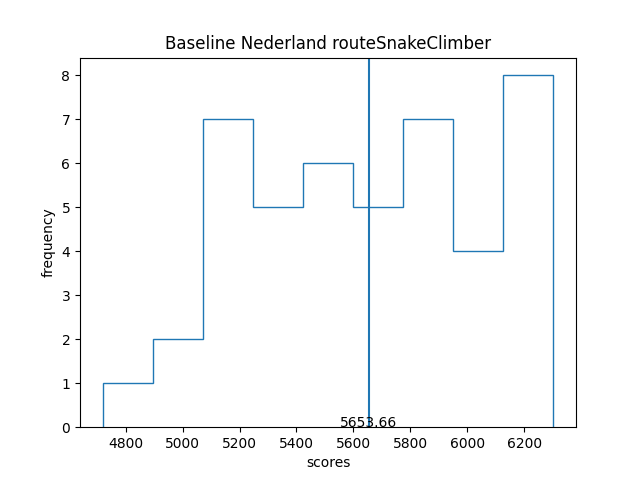
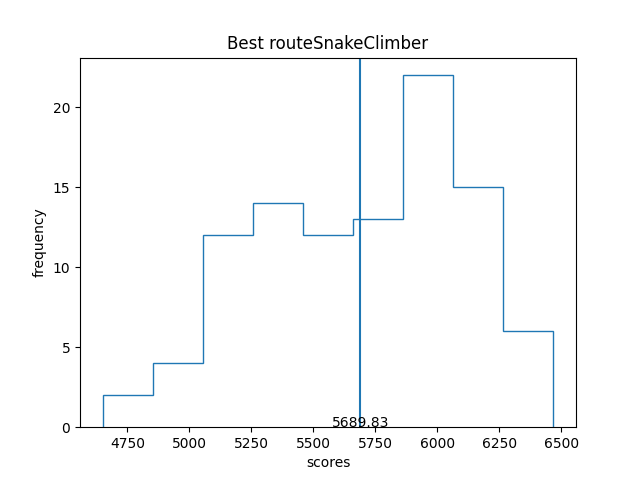
readme

diff --git a/railNL/algorithms/hillclimber_simon.py b/railNL/algorithms/hillclimber_simon.py
@@ -12,7 +12,8 @@ from algorithms.random_hajo import randomSolution, exportScores
 class HillClimber():
 
 
-    def __init__(self, model, runName: str, targetFolder: str, maxRoutes: int, maxDuration: int, randomIterations: int, maxConvergence: int):
+    def __init__(self, model, runName: str, targetFolder: str, maxRoutes: int,
+                 maxDuration: int, randomIterations: int, maxConvergence: int):
         # Takes a random solution
         model = randomSolution(model, maxRoutes, maxDuration, randomIterations)
         workModel = deepcopy(model)
@@ -88,7 +89,7 @@ class HillClimber():
             self.convergence = 0
 
 
-    def run(self, verbose=False, mutate_nodes_number=1) -> None:
+    def run(self, iterations: int= 30000, verbose=False, mutate_nodes_number=1) -> None:
         """
         Runs the hillclimber algorithm for a specific amount of iterations.
         """
@@ -96,13 +97,14 @@ class HillClimber():
         START_TIMESTAMP = datetime.datetime.now().strftime("%Y%m%d-%H%M%S")
 
         self.convergence = 0
-
+        self.iterations = iterations
 
         while self.convergence <= self.maxConvergence:
 
             # Accept it if it is better
             self.checkSolution(self.mutateRoute())
             self.iteration += 1
+            self.iterations += 1
             self.convergence += 1
 
         # exports scoress
@@ -110,7 +112,11 @@ class HillClimber():
         exportScores(self.scores, self.targetFolder, self.runName, START_TIMESTAMP)
 
 
-def main(network: RailNetwork, runName: str, targetFolder: str, maxRoutes: int, maxDuration: int, randomIterations: int=50, maxConvergence: int=10000) -> RailNetwork:
-    model = HillClimber(network, runName, targetFolder, maxRoutes, maxDuration, randomIterations, maxConvergence)
+def main(network: RailNetwork, runName: str, targetFolder: str, maxRoutes: int,
+         maxDuration: int, randomIterations: int=50,
+         maxConvergence: int=10000) -> RailNetwork:
+
+    model = HillClimber(network, runName, targetFolder, maxRoutes, maxDuration,
+                        randomIterations, maxConvergence)
     model.run()
     return model.previousModel

diff --git a/railNL/algorithms/hillClimber_Finn_Simon.py b/railNL/algorithms/hillClimber_Finn_Simon.py
@@ -13,7 +13,8 @@ from algorithms.random_hajo import randomSolution, exportScores, randomRoute
 class HillClimber():
 
 
-    def __init__(self, model, runName: str, targetFolder: str, maxRoutes: int, maxDuration: int, randomIterations: int, maxConvergence: int):
+    def __init__(self, model, runName: str, targetFolder: str, maxRoutes: int,
+                 maxDuration: int, randomIterations: int, maxConvergence: int):
         # Takes a random solution
         model = randomSolution(model, maxRoutes, maxDuration, randomIterations)
         workModel = deepcopy(model)
@@ -34,6 +35,7 @@ class HillClimber():
         """
         self.workModel = deepcopy(self.previousModel)
 
+        # makes sure that the minimum of routes is 7, for highest results
         if self.workModel.nRoute() < 7:
             routeID = self.getLowestScoringRoute()
             self.removeLowestRoute(routeID)
@@ -80,7 +82,8 @@ class HillClimber():
 
     def mutateRoute(self) -> None:
         """
-        Random choice between removing first three or last three station for every route taken.
+        Random choice between removing first three or last three station for
+        every route taken.
         Than adds a new station to the route.
         """
         for route in self.workModel.listRoutes():
@@ -166,7 +169,11 @@ class HillClimber():
         exportScores(self.scores, self.targetFolder, self.runName, START_TIMESTAMP)
 
 
-def main(network: RailNetwork, runName: str, targetFolder: str, maxRoutes: int, maxDuration: int, randomIterations: int=50, maxConvergence: int=10000) -> RailNetwork:
-    model = HillClimber(network, runName, targetFolder, maxRoutes, maxDuration, randomIterations, maxConvergence)
+def main(network: RailNetwork, runName: str, targetFolder: str, maxRoutes: int,
+         maxDuration: int, randomIterations: int=50,
+         maxConvergence: int=10000) -> RailNetwork:
+
+    model = HillClimber(network, runName, targetFolder, maxRoutes, maxDuration,
+                        randomIterations, maxConvergence)
     model.run()
     return model.previousModel

diff --git a/railNL/algorithms/hillclimber_simon1.py b/railNL/algorithms/hillclimber_simon1.py
@@ -11,7 +11,8 @@ from algorithms.random_hajo import randomSolution, exportScores
 
 class HillClimber():
 
-    def __init__(self, model, runName: str, targetFolder: str, maxRoutes: int, maxDuration: int, randomIterations: int, maxConvergence: int):
+    def __init__(self, model, runName: str, targetFolder: str, maxRoutes: int,
+                 maxDuration: int, randomIterations: int, maxConvergence: int):
         # Takes a random solution
         model = randomSolution(model, maxRoutes, maxDuration, randomIterations)
         workModel = deepcopy(model)
@@ -112,7 +113,11 @@ class HillClimber():
         self.previousModel.exportSolution(self.targetFolder, self.runName)
         exportScores(self.scores, self.targetFolder, self.runName, START_TIMESTAMP)
 
-def main(network: RailNetwork, runName: str, targetFolder: str, maxRoutes: int, maxDuration: int, randomIterations: int=50, maxConvergence: int=10000) -> RailNetwork:
-    model = HillClimber(network, runName, targetFolder, maxRoutes, maxDuration, randomIterations, maxConvergence)
+def main(network: RailNetwork, runName: str, targetFolder: str, maxRoutes: int,
+         maxDuration: int, randomIterations: int=50,
+         maxConvergence: int=10000) -> RailNetwork:
+
+    model = HillClimber(network, runName, targetFolder, maxRoutes, maxDuration,
+                        randomIterations, maxConvergence)
     model.run()
     return model.previousModel

diff --git a/railNL/algorithms/hillclimber_simon2.py b/railNL/algorithms/hillclimber_simon2.py
@@ -12,7 +12,8 @@ from algorithms.random_hajo import randomSolution, exportScores
 class HillClimber():
 
 
-    def __init__(self, model, runName: str, targetFolder: str, maxRoutes: int, maxDuration: int, randomIterations: int, maxConvergence: int):
+    def __init__(self, model, runName: str, targetFolder: str, maxRoutes: int,
+                 maxDuration: int, randomIterations: int, maxConvergence: int):
         # Takes a random solution
         model = randomSolution(model, maxRoutes, maxDuration, randomIterations)
         workModel = deepcopy(model)
@@ -121,7 +122,11 @@ class HillClimber():
         exportScores(self.scores, self.targetFolder, self.runName, START_TIMESTAMP)
 
 
-def main(network: RailNetwork, runName: str, targetFolder: str, maxRoutes: int, maxDuration: int, randomIterations: int=50, maxConvergence: int=10000) -> RailNetwork:
-    model = HillClimber(network, runName, targetFolder, maxRoutes, maxDuration, randomIterations, maxConvergence)
+def main(network: RailNetwork, runName: str, targetFolder: str, maxRoutes: int,
+         maxDuration: int, randomIterations: int=50,
+         maxConvergence: int=10000) -> RailNetwork:
+
+    model = HillClimber(network, runName, targetFolder, maxRoutes, maxDuration,
+                        randomIterations, maxConvergence)
     model.run()
     return model.previousModel

diff --git a/SnakeClimbers.md b/SnakeClimbers.md
@@ -1,42 +1,43 @@
 ## Hillclimber Algorithm [Snake Hillclimber](#snake-hillclimber)
-## explaining the algoritm
-This algorthm is a hill climber that seeks to optimize the score of a traject within the
-totally of the railNetwork.
-Here for it takes a random generated railNetwork. Next it chooses for every traject if the first
-or last station needs to be removed. This happens randomly. Next it will add a station to the
-begin or the end of the traject.
-The goal is that every time a traject improves when in finds a better path to take.
-There is also the option the the traject adds another route.
-It calculates the totally of the scores before it approves if every single traject is indeed an improvement.
-Because it is possible that a new path taken optimalizes the score of the singe traject, but downgrades
-the score of the totally of the railNetwork.
+* explaining the algorithm
 
-I noticed that this method has mainly effect on the outer stations of every single traject, but does not
-easily/often lead to changes in the middle of the traject. To resolves this problem, there are two algorithms
-with a small change. [SnakeHillClimber1] removes the first two or the last two stations of the traject, and adds
-two.
-[SnakeHillClimber2] removes the stations at the beginning or the end of a traject and replaces them next.
-This is done so that the middle section of traject will easily be changed as well.
+This algorithm is a hill climber that seeks to optimize the score of a traject within the totally of the railNetwork.
+Here for it takes a random generated railNetwork. Next it chooses for every traject if the first or last station needs to be removed. This happens randomly. Next it will add a station to the begin or the end of the traject. The goal is that every time a traject improves when in finds a better path to take. There is also the option the the traject adds another route. It calculates the totally of the scores before it approves if every single traject is indeed an improvement. Because it is possible that a new path taken optimizes the score of the singe traject, but downgrades the score of the totally of the railNetwork.
+
+* Adjustments to the algorithm
+I noticed that this method has mainly effect on the outer stations of every single traject, but does not easily/often lead to changes in the middle of the traject. To resolves this problem, there are two algorithms with a small change. 'SnakeHillClimber1' removes the first two or the last two stations of the traject, and adds two.
+'SnakeHillClimber2' removes the stations at the beginning or the end of a traject and replaces them next. This is done so that the middle section of traject will easily be changed as well.
 
 
 ##Comparing scores
-To start with the comparison with the random baseline. The 'snakeClimber' already improves this.
-With results ranging from 4500 toward 5990 points. With a average of 5614. This is way above
+# snakeClimber
+To start with the comparison with the random baseline. The 'snakeClimber' already improves this. With results ranging from 4500 toward 5990 points. With a average of 5614. This is way above
+[Solution](/docs/railNetwork-snakeClimber.png)
+[Hist](//docs/hist-snakeClimber.png)
 
-'snakeClimber1' has an average of 5456, with a broader range. But interesting to see is that it turns out
-that it gives more results on the higher end of the spectrum, even with results over the 6000 points.
+#snakeClimber1
+'snakeClimber1' has an average of 5487.20, with a broader range; the lowest is 4304.12. But interesting to see is that it turns out that it gives more results on the higher end of the spectrum, with a highest result of 6536.76 points.
 Therefore it gives faster better results than the 'snakeClimber'.
+[Solution](/docs/railNetwork-snakeClimber1.png)
+[Hist](/docs/hist-snakeClimber1.png)
 
-'snakeClimber2' has an average of 5515 with a the same minimun as 'snakeClimber', but it gives higher
-results. It even reaches the 6500. This is probably due the fact that it has a higher probability
-to change middle route. So the adjustments on the algoritm generated the expected changes.
+#snakeClimber2
+'snakeClimber2' has an average of 5528.73 with a minimum of 4445.92, but it gives more higher
+results. It even reaches the 6500.28. This is probably due the fact that it has a higher probability
+to change middle route. So the adjustments on the algorithm generated the expected changes.
+[Solution](/docs/railNetwork-snakeClimber2.png)
+[Hist](/docs/hist-SnakeClimber2.png)
 
-It is interesting for further studies to see what will happen when we elimante 4, 5 or even 6 stations,
-but this will probably redo a total route. Therefore the choice has been made to combine this algoritm 'snakeClimber2'
-with routeReplace algoritm. This is another algorithm that replaces the route with the lowest score.
+It is interesting for further studies to see what will happen when we eliminate 4, 5 or even 6 stations,
+but this will probably re-do a total route. Therefore the choice has been made to combine this algorithm 'snakeClimber2'
+with routeReplace algorithm. This is another algorithm that replaces the route with the lowest score.
 
-The results of this algorithm (routeSnakeClimber) is as follows: it has an average of 5636 and the range is from 4700 to 6300.
-This means that this algorithm has not gave a higher score than 'snakeClimber2', but it did gave a more usefull range.
+#routesnakeclimber
+The results of this algorithm (routeSnakeClimber) is as follows: it has an average of 5690.80 and the range is from 4650.12 to 6468.20.
+This means that this algorithm has not gave a higher score than 'snakeClimber1', but it did gave a more useful range.
+[Solution](/docs/railNetwork-routeSnakeClimber.png)
+[Hist](/docs/hist-routeSnakeClimber.png)
 
-
-The 'snakeClimber2'- algorithm has run without the station Utrecht. This gave a surprising result: the scores were generally higher than that of the complete railNetwork. With an average of 5768 and an highest score of 6563.
+#snakeClimber2-WithoutUtrecht
+The 'snakeClimber2'- algorithm has run without the station Utrecht. This gave a surprising result: the scores were generally higher than that of the complete railNetwork. With an average of 5768.85 and an highest score of 6563.0. Which gives surprisingly a higher score than the runs with Utrecht.
+[Hist](/docs/hist-SnakeClimberUtrecht2.png)
